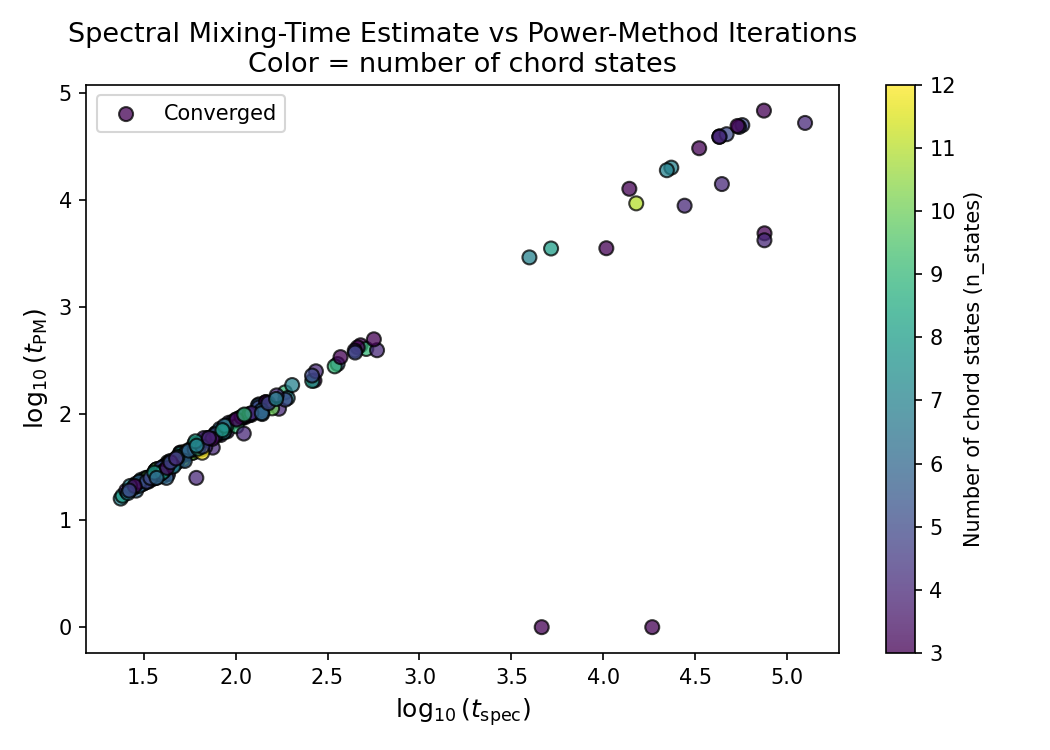
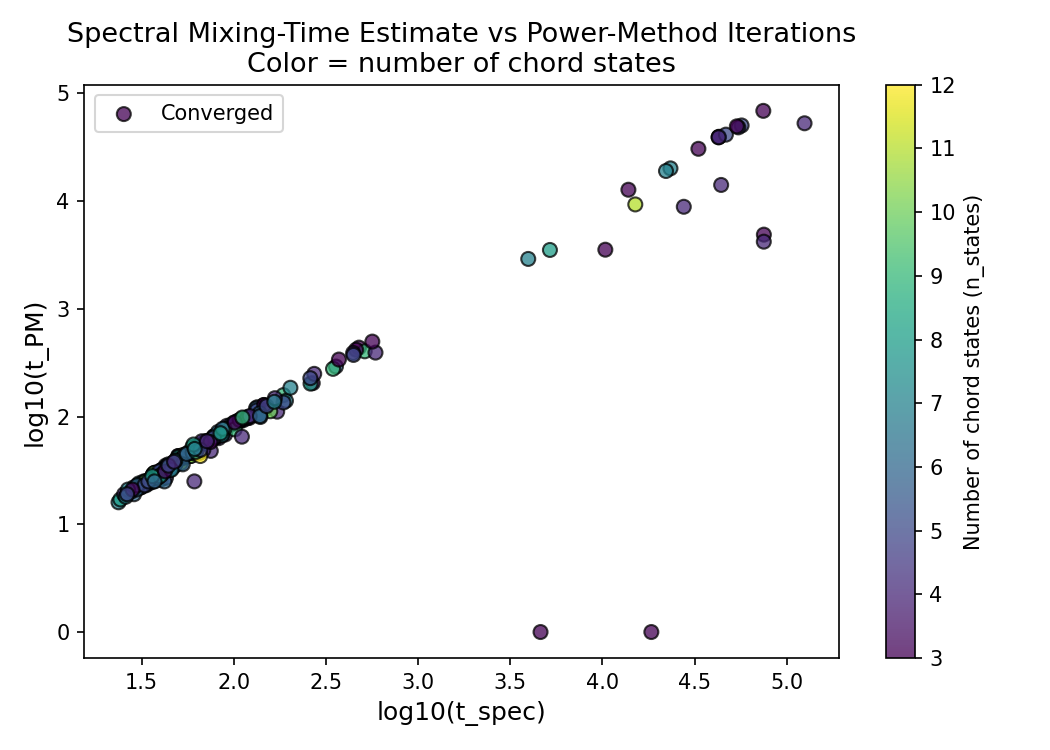
changed formatting

diff --git a/main.py b/main.py
@@ -1,10 +1,5 @@
 """
 AM205 Project: Spectral Mixing Times in Chord-Transition Markov Chains
-(Updated for 1959–1991, more songs/year, diagnostics & plots)
-
-Now excludes songs with fewer than 3 distinct chord states (n_states < 3),
-since 2-state chains tend to produce pathological tiny spectral gaps and
-blow up the t_spec bound.
 """
 
 from __future__ import annotations
@@ -614,14 +609,15 @@ def analyze_song_row(
     alpha: float = 1e-3,
     checkpoint_dir: Optional[Path] = None,
     debug_example: bool = False,
-    min_states: int = 3,   # <-- NEW: require more than 2 states
+    min_states: int = 3,
 ) -> Optional[SongChainResult]:
     """
     Full pipeline for one Kaggle song.
 
     Songs with n_states < min_states are skipped. In particular,
     with min_states=3 we exclude 1- and 2-state chains, which are
-    the main source of pathological tiny spectral gaps.
+    the main source of pathological tiny spectral gaps and
+    blow up the t_spec estimate.
 
     When debug_example=True, print the chord sequence and transition
     matrix to give an interpretable example of what the Markov chain
@@ -680,7 +676,7 @@ def analyze_song_row(
         )
         return None
 
-    # Optional interpretability: print chords + transition matrix for a couple songs
+    # Print chords + transition matrix for a couple songs
     if debug_example:
         print("\n=== Example Markov chain for song ===")
         print(f"{artist} - {title} ({year}, decade {decade})")
@@ -767,7 +763,7 @@ def run_song_level_analysis(
     """
     Driver for song-level analysis on a pre-selected set of songs (df_sel).
 
-    - Optionally resumes from checkpoint_dir/song_results.csv if resume=True.
+    - Resumes from checkpoint_dir/song_results.csv if resume=True.
     - After each successfully analyzed song, writes updated song_results.csv.
     - For interpretability, prints up to n_example_transition_matrices
       example transition matrices with chord labels.
@@ -1108,8 +1104,8 @@ def plot_tspec_vs_iters_loglog(df_results: pd.DataFrame) -> None:
     cbar = plt.colorbar(sc1)
     cbar.set_label("Number of chord states (n_states)", fontsize=10)
 
-    plt.xlabel(r"$\log_{10}(t_{\mathrm{spec}})$", fontsize=12)
-    plt.ylabel(r"$\log_{10}(t_{\mathrm{PM}})$", fontsize=12)
+    plt.xlabel("log10(t_spec)", fontsize=12)
+    plt.ylabel("log10(t_PM)", fontsize=12)
     plt.title("Spectral Mixing-Time Estimate vs Power-Method Iterations\nColor = number of chord states", fontsize=13)
 
     plt.legend()
@@ -1310,12 +1306,12 @@ def main():
 
     YEAR_START = 1959
     YEAR_END = 1991
-    MAX_SONGS_PER_YEAR = 20      # try to pull more songs per year if possible
+    MAX_SONGS_PER_YEAR = 20      # TODO: try to pull more songs per year if possible
     MAX_CANDIDATES_PER_YEAR = 100
 
     POWER_TOL = 1e-6
     ALPHA = 1e-3
-    MIN_STATES_FOR_ANALYSIS = 3  # <-- MORE THAN 2 STATES
+    MIN_STATES_FOR_ANALYSIS = 3
 
     CHECKPOINT_DIR.mkdir(parents=True, exist_ok=True)
     selected_songs_path = CHECKPOINT_DIR / "selected_songs.csv"
